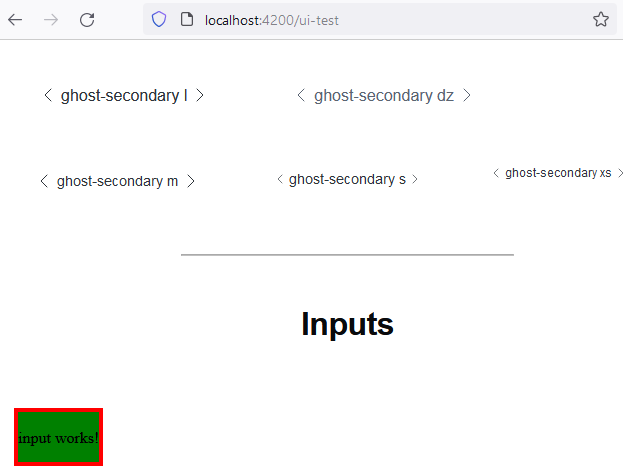
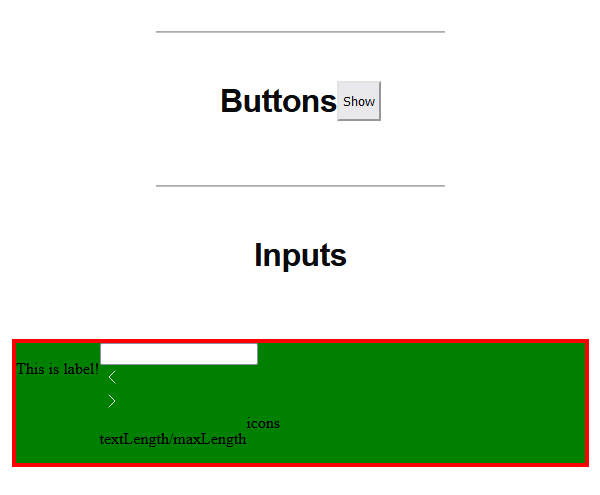
feat: test input

diff --git a/src/app/shared/modules/mib-ui/mib-ui.component.html b/src/app/shared/modules/mib-ui/mib-ui.component.html
@@ -4,10 +4,18 @@
 <h4>h4! mib-ui works!</h4>
 <h5>h5! mib-ui works!</h5>
 <hr style="max-width: 50%; opacity: 0.5; margin: 3rem auto" />
-<h2 style="text-align: center; margin: 2rem 0 4rem">
+<h2
+	style="
+		text-align: center;
+		margin: 2rem 0 4rem;
+		display: flex;
+		justify-content: center;
+	"
+>
 	{{ 'buttons' | titlecase }}
+	<button (click)="isShown = !isShown">{{ isShown ? 'Hide' : 'Show' }}</button>
 </h2>
-<div class="btn-wrapper">
+<div *ngIf="isShown" class="btn-wrapper">
 	<app-button size="l">
 		<metib-ref-icon class="stroke" name="fi_chevron-left"></metib-ref-icon>
 		filled-primary l
@@ -263,5 +271,21 @@
 	{{ 'inputs' | titlecase }}
 </h2>
 <div class="btn-wrapper">
-	<app-input class="test-input"></app-input>
+	<app-input class="test-input">
+		<!-- <h2>hello,world!</h2> -->
+		<!-- <label input-label for="newId">This is label!</label> -->
+		<ng-container input-label for="newId">This is label!</ng-container>
+		<input type="text" />
+		<metib-ref-icon
+			input-right-icon
+			class="stroke"
+			name="fi_chevron-right"
+		></metib-ref-icon>
+		<metib-ref-icon
+			input-left-icon
+			class="stroke"
+			name="fi_chevron-left"
+		></metib-ref-icon>
+	</app-input>
+	<div style="width: 100%; height: 10rem"></div>
 </div>

diff --git a/src/app/shared/ui-kit/input/input.component.html b/src/app/shared/ui-kit/input/input.component.html
@@ -1,1 +1,30 @@
-<p>input works!</p>
+<div #box class="flex flex_column">
+	<div class="box-label">
+		<p #label class="text text_small c-ti-dark-tertiary">
+			<ng-content select="[input-label]"></ng-content>
+		</p>
+	</div>
+	<div class="box">
+		<ng-content></ng-content>
+		<div class="input_icon-wrapper left-wrapper" #iconLeft>
+			<ng-content select="[input-left-icon]"></ng-content>
+		</div>
+		<div class="input_icon-wrapper right-wrapper" #iconRight>
+			<ng-content select="[input-right-icon]"></ng-content>
+		</div>
+		<div class="textarea-panel flex flex_align-center flex_justify-between">
+			<p
+				id="textarea-panel-counter"
+				class="text text_tiny c-ti-dark-quaternary"
+			>
+				textLength/maxLength
+			</p>
+			icons
+		</div>
+	</div>
+	<div class="box-label box-label_message flex flex_column">
+		<p #message class="text text_small text_medium c-ti-dark-quaternary">
+			<ng-content select="[input-message]"></ng-content>
+		</p>
+	</div>
+</div>

diff --git a/src/app/shared/modules/mib-ui/mib-ui.component.ts b/src/app/shared/modules/mib-ui/mib-ui.component.ts
@@ -20,6 +20,8 @@ import { Component } from '@angular/core'
 	]
 })
 export class MibUiComponent {
+	isShown = false
+
 	login() {
 		console.log('halo click!')
 	}

diff --git a/src/app/shared/ui-kit/input/input.component.scss b/src/app/shared/ui-kit/input/input.component.scss
@@ -1,0 +1,4 @@
+:host {
+	width: 100%;
+	min-width: 72px;
+}
